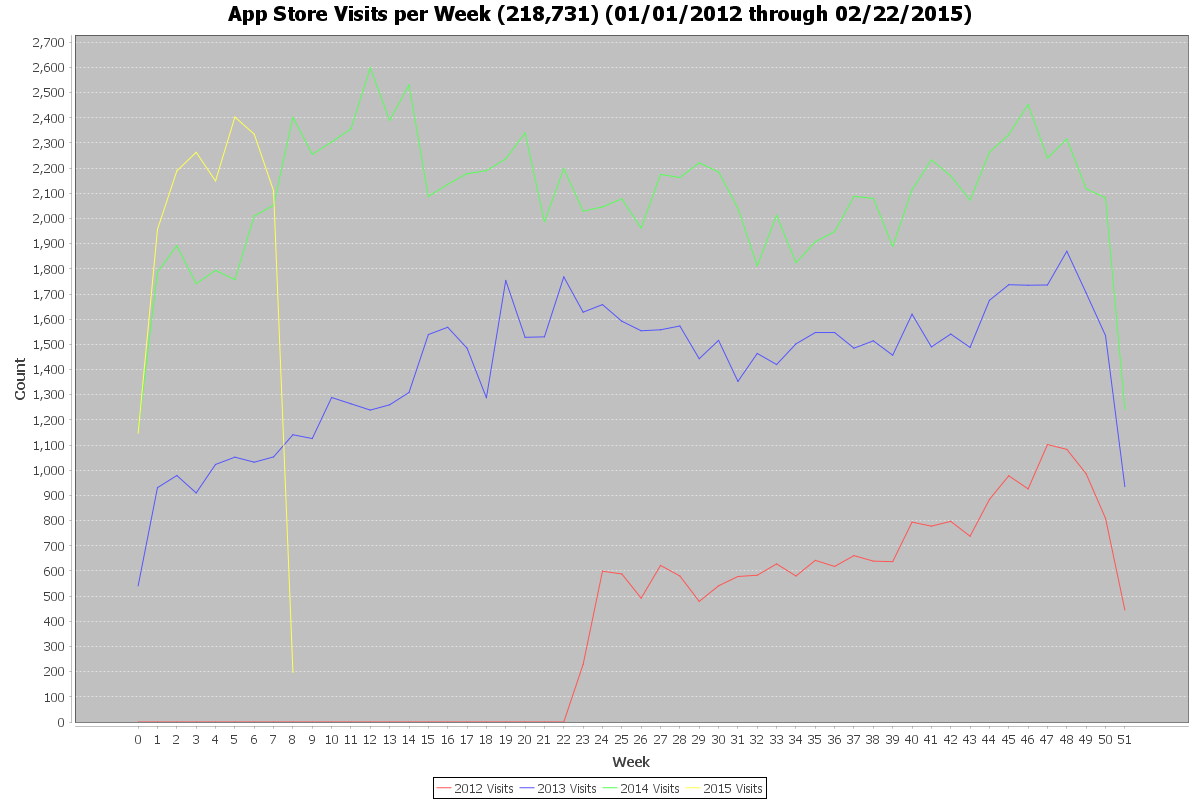
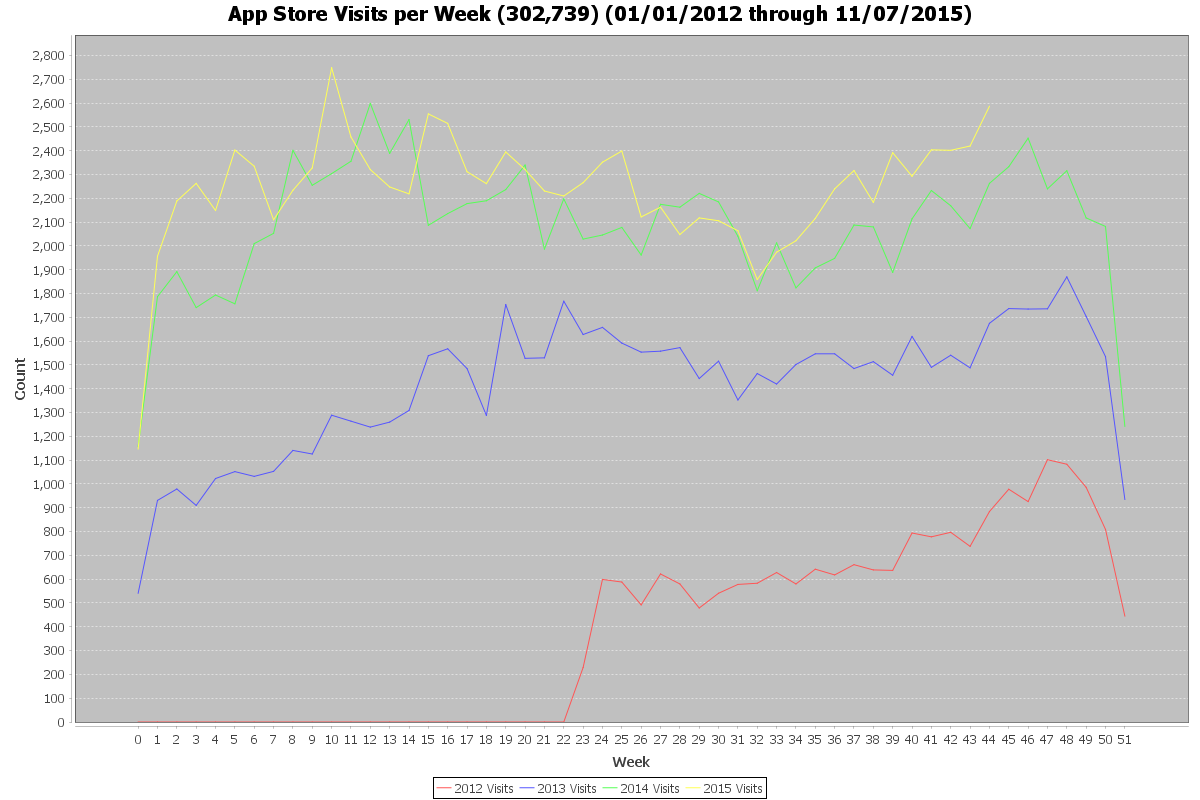
Merge origin/master
Conflicts:
	GAVisualizer/src/gavisualizer/GAVisualizer.java
	GAVisualizer/src/gavisualizer/GoogleApiManager.java

diff --git a/GAVisualizer/src/gavisualizer/GoogleApiManager.java b/GAVisualizer/src/gavisualizer/GoogleApiManager.java
@@ -19,6 +19,9 @@ import com.google.api.services.analytics.model.Profiles;
 import com.google.api.services.analytics.model.Webproperties;
 import java.io.File;
 import java.io.IOException;
+import java.text.DateFormat;
+import java.text.SimpleDateFormat;
+import java.util.Date;
 
 /**
  *
@@ -46,7 +49,7 @@ public class GoogleApiManager {
     
     public GaData getSessionsByCountry() throws IOException {
         return _analytics.data().ga()
-                .get("ga:" + _CytoscapeProfile, "2012-01-01", /*"today"*/ "2015-02-22", "ga:sessions")
+                .get("ga:" + _CytoscapeProfile, "2012-01-01", getToday(), "ga:sessions")
                 .setDimensions("ga:country")
                 .setSort("-ga:sessions")
                 .execute();
@@ -54,7 +57,7 @@ public class GoogleApiManager {
     
     public GaData getWebsiteReferralSources() throws IOException {
         return _analytics.data().ga()
-                .get("ga:" + _CytoscapeProfile, "2012-01-01", /*"today"*/ "2015-02-22", "ga:sessions")
+                .get("ga:" + _CytoscapeProfile, "2012-01-01", getToday(), "ga:sessions")
                 .setDimensions("ga:sourceMedium")
                 .setSort("-ga:sessions")
                 .execute();
@@ -62,14 +65,14 @@ public class GoogleApiManager {
     
     public GaData getWebsiteSessionsByWeek() throws IOException {
         return _analytics.data().ga()
-                .get("ga:" + _CytoscapeProfile, "2012-01-01", /*today*/ "2015-02-22", "ga:sessions")
+                .get("ga:" + _CytoscapeProfile, "2012-01-01", getToday(), "ga:sessions")
                 .setDimensions("ga:nthWeek")
                 .execute();
     }     
     
     public GaData getWebsiteDownloads() throws IOException {
         return _analytics.data().ga()
-                .get("ga:" + _CytoscapeProfile, "2012-01-01", /*"today"*/ "2015-02-22", "ga:pageviews")
+                .get("ga:" + _CytoscapeProfile, "2012-01-01", getToday(), "ga:pageviews")
                 .setFilters("ga:pagePath==/download.php")
                 .setDimensions("ga:pagePath,ga:nthWeek")
                 .setSort("ga:nthWeek")
@@ -79,7 +82,7 @@ public class GoogleApiManager {
     //Extracts data for App Store Sessions by Country
     public GaData getAppSessionsByCountry() throws IOException {  
         return _analytics.data().ga()
-                .get("ga:" + _AppstoreProfile, "2012-06-01", /*"today"*/ "2015-02-22", "ga:sessions")
+                .get("ga:" + _AppstoreProfile, "2012-06-01", getToday(), "ga:sessions")
                 .setDimensions("ga:country")
                 .setSort("-ga:sessions")
                 .execute();
@@ -88,7 +91,7 @@ public class GoogleApiManager {
     //Extracts data for App Store Referral Sources
     public GaData getAppReferralSources() throws IOException {
         return _analytics.data().ga()
-                .get("ga:" + _AppstoreProfile, "2012-06-01", /*"today"*/ "2015-02-22", "ga:sessions")
+                .get("ga:" + _AppstoreProfile, "2012-06-01", getToday(), "ga:sessions")
                 .setDimensions("ga:sourceMedium")
                 .setSort("-ga:sessions")
                 .execute();
@@ -97,7 +100,7 @@ public class GoogleApiManager {
     //Extracts data for App Store Visits by Week
     public GaData getAppSessionsByWeek () throws IOException {
         return _analytics.data().ga()
-                .get("ga:" + _AppstoreProfile, "2012-01-01", /*today*/ "2015-02-22", "ga:sessions")
+                .get("ga:" + _AppstoreProfile, "2012-01-01", getToday(), "ga:sessions")
                 .setDimensions("ga:nthWeek")
                 .execute();
     }
@@ -105,7 +108,7 @@ public class GoogleApiManager {
     //Extracts data for App Store Visits by Week
     public GaData getAppAttractionsByCategory () throws IOException {
         return _analytics.data().ga()
-                .get("ga:" + _AppstoreProfile, "2012-06-01", /*today*/ "2015-02-22", "ga:pageviews")
+                .get("ga:" + _AppstoreProfile, "2012-06-01", getToday(), "ga:pageviews")
                 .setDimensions("ga:pageTitle")
                 .setSort("-ga:pageviews")
                 .setFilters("ga:pageTitle=~category")
@@ -201,5 +204,17 @@ public class GoogleApiManager {
             }
         }
         return profileId;
-    }    
+    }
+    
+    private String getToday() throws IOException {
+        
+        //create a date with Google Analytics date format
+        Date d = new Date();     
+        
+        //create a format to read Google Analytics date format
+        DateFormat write = new SimpleDateFormat("yyyy-MM-dd");
+        
+        //return the date with the expected output format
+        return write.format(d);
+    }
 }

diff --git a/GAVisualizer/src/gavisualizer/GAVisualizer.java b/GAVisualizer/src/gavisualizer/GAVisualizer.java
@@ -318,7 +318,7 @@ public class GAVisualizer {
         DateFormat write = new SimpleDateFormat("MM/dd/yyyy");
         
         //return the date with the expected output format
-        return write.format(d).toString();
+        return write.format(d);
     }
     
     //NOTE! I added this to format year different than GA keeps them (George)
@@ -340,6 +340,6 @@ public class GAVisualizer {
         DateFormat write = new SimpleDateFormat("yyyy");
         
         //return year
-        return write.format(d).toString();
+        return write.format(d);
     }
 }
